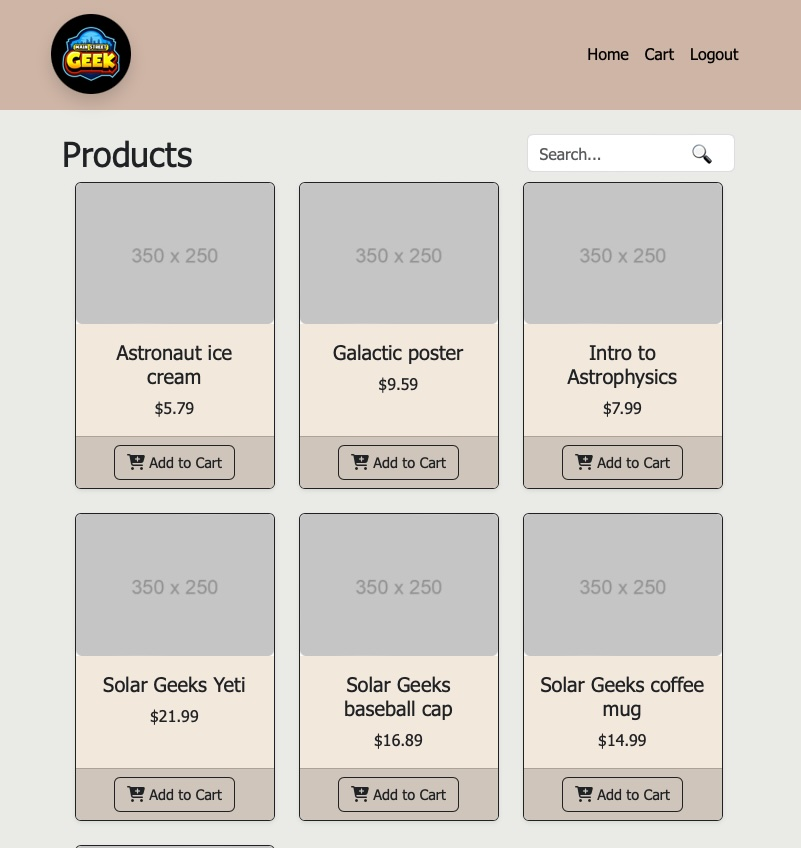
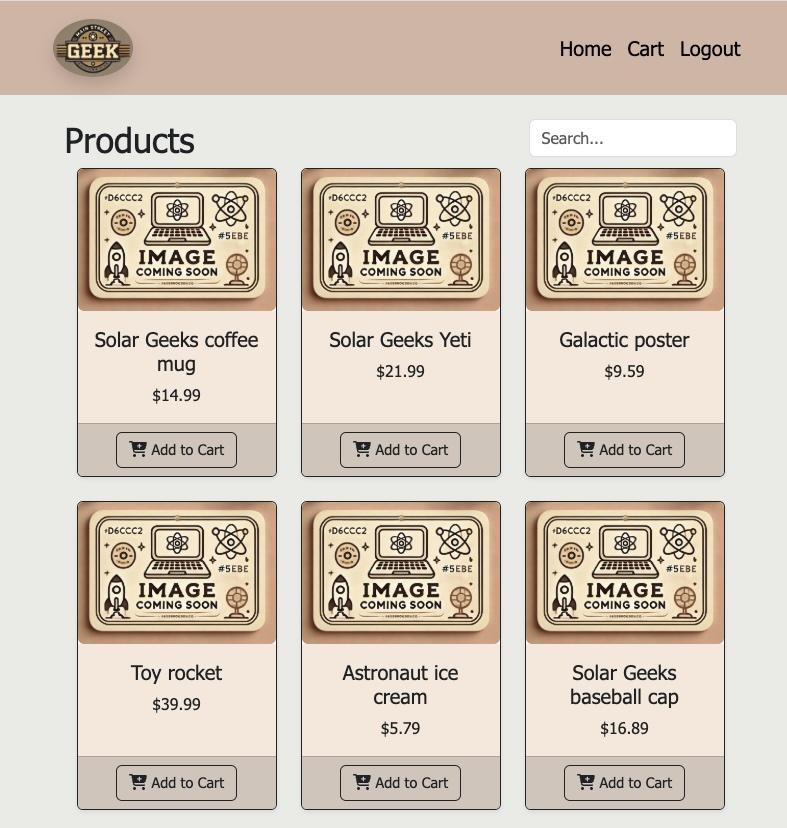
project description update

diff --git a/src/index.html b/src/index.html
@@ -180,12 +180,26 @@
                     Java Spring Boot | PostgreSQL | REST API | Vue.js | Bootstrap
                   </p>
                   <p class="mb-4">
-                    Full stack e-commerce store that I created as a part of my 
-                    bootcamp program. I built frontend with Vue.js and Bootstrap, 
-                    backend with Java Spring Boot and used PostgreSQL for database. 
-                    The backend handles RESTful API requests, user authentication, 
-                    and database operations, while the frontend provides a 
-                    responsive and intuitive shopping experience. 
+                    Geek Store is a full-stack e-commerce web application 
+                    that I developed as part of my bootcamp program. 
+                    The project showcases a modern and responsive 
+                    shopping experience built with Vue.js for the 
+                    frontend and styled with Bootstrap. The backend 
+                    is powered by Java Spring Boot, handling RESTful 
+                    API requests, user authentication, and database 
+                    operations using PostgreSQL.
+                  </p>
+                  <p>
+                    The application features dynamic product browsing, 
+                    user authentication, cart management, and order 
+                    processing. The frontend communicates seamlessly 
+                    with the backend, ensuring a smooth user experience.
+                  </p>
+                  <p>
+                    For deployment, the backend and database are hosted 
+                    on Heroku, while the frontend is deployed on Netlify, 
+                    providing a reliable and scalable environment for 
+                    the application.
                   </p>
                 </div>
                 <a
